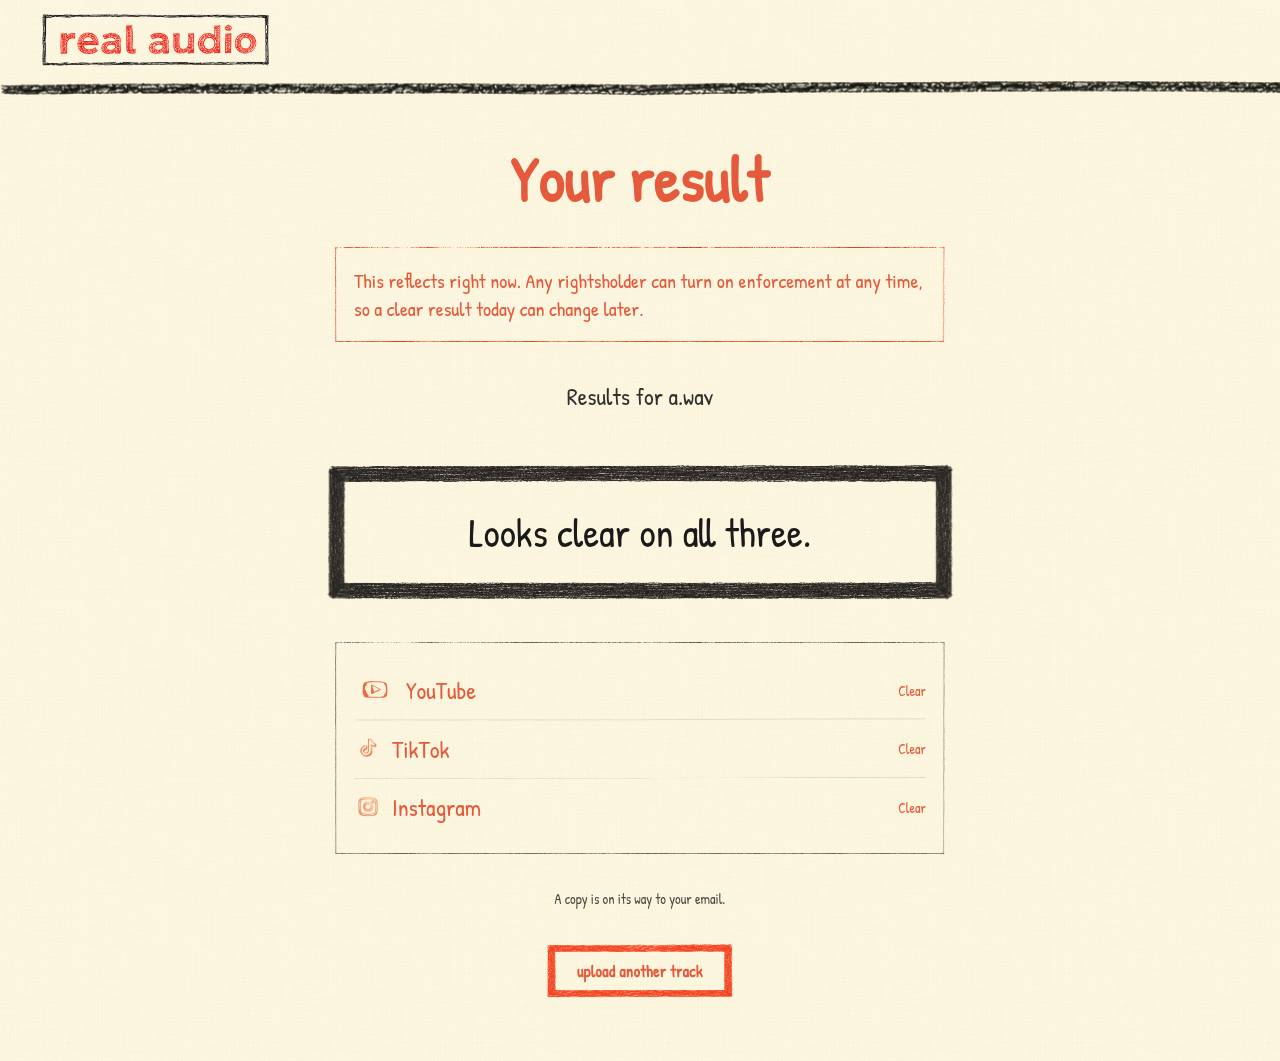
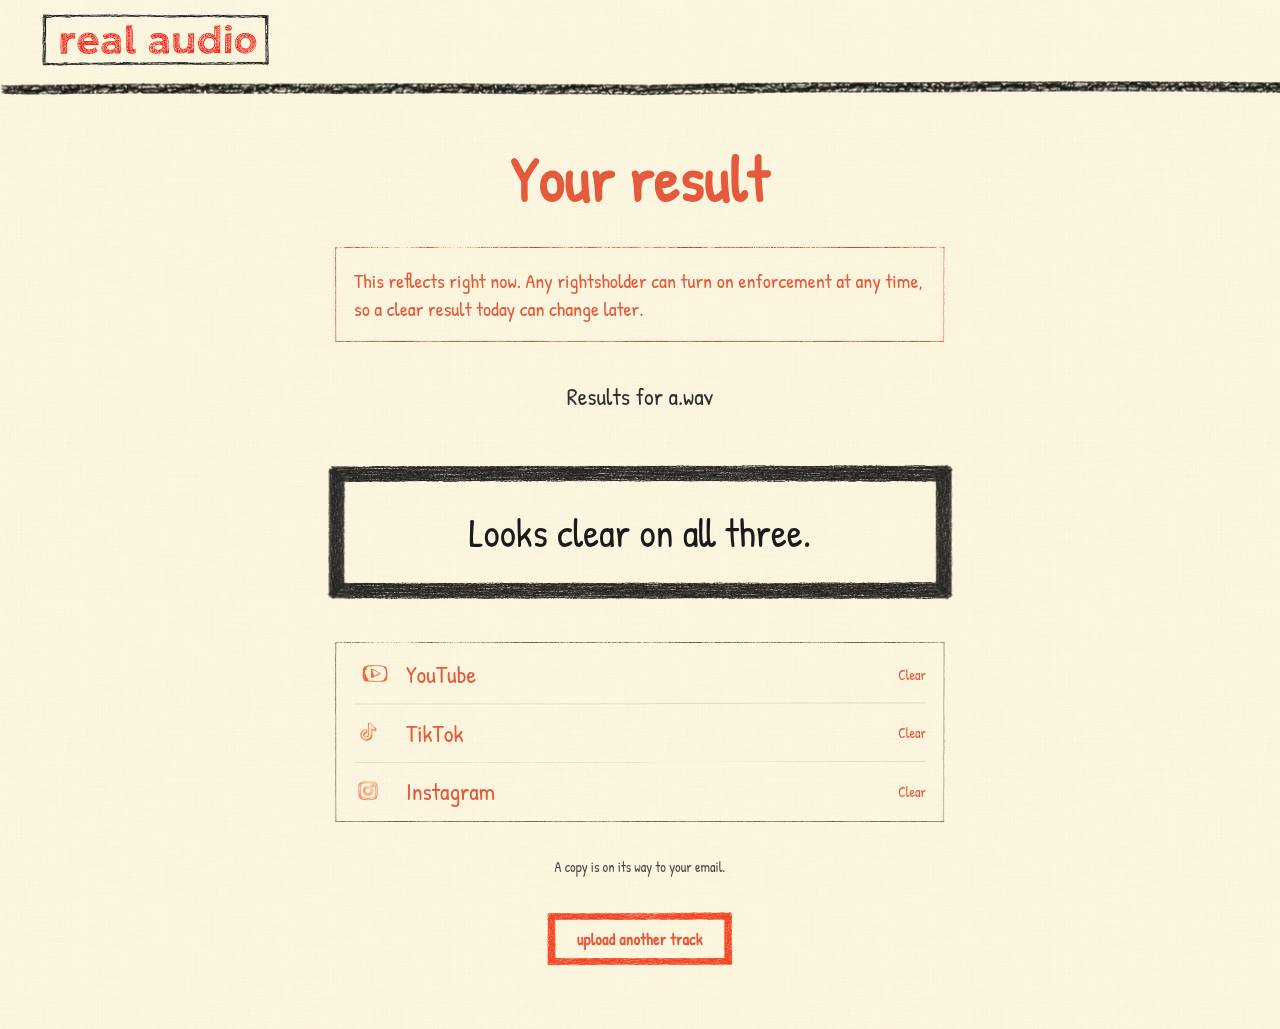
MS-002 fix (Reject10): summary width match; platform-name left align; tighten YT/IG outer gaps
Match #summary content width to warning/card text chunks; fixed 42px icon
column so YouTube/TikTok/Instagram names share a left edge; reduce platforms
box + first/last row padding above YT / below IG. Cache-bust ms002-r10; e2e
layout asserts + refreshed result screenshots.

diff --git a/clearance-check/public/styles.css b/clearance-check/public/styles.css
@@ -378,16 +378,37 @@ h1, h2, h3, p { margin: 0; }
 .actions { display: flex; justify-content: center; padding-top: 8px; }
 
 /* Result page */
+/* Reject10: summary text width matches warning/platform card content (border 18 + pad 16). */
+#summary.lead {
+  padding-left: calc(18px + var(--space-4));
+  padding-right: calc(18px + var(--space-4));
+}
 .platforms { list-style: none; margin: 0; padding: 0; }
 .platform { display: flex; flex-wrap: wrap; align-items: center; justify-content: space-between; gap: 2px 16px; padding: 12px 0; }
 .platform + .platform { border-top: 0; }
-.platform-label { display: inline-flex; align-items: center; gap: 10px; min-width: 0; }
+/* Reject10: less outer gap above YouTube / below Instagram */
+#platforms-box {
+  padding-top: var(--space-2);
+  padding-bottom: var(--space-2);
+}
+.platform:first-child { padding-top: 4px; }
+.platform:last-child { padding-bottom: 4px; }
+/* Reject10: fixed icon column so names share a left edge (YT ~42px at h=28) */
+.platform-label {
+  display: inline-grid;
+  grid-template-columns: 42px auto;
+  align-items: center;
+  column-gap: 10px;
+  min-width: 0;
+}
 .platform-icon {
   /* Reject9: fixed height, width auto — keep natural aspect (YT is wider than TT/IG) */
   height: 28px;
   width: auto;
+  max-width: 42px;
   flex-shrink: 0;
   display: block;
+  justify-self: start;
   /* Spencer: start black (true black, not CF grey inactive) */
   filter: brightness(0) saturate(100%);
 }

diff --git a/clearance-check/public/r/index.html b/clearance-check/public/r/index.html
@@ -9,7 +9,7 @@
   <link rel="preconnect" href="https://fonts.googleapis.com">
   <link rel="preconnect" href="https://fonts.gstatic.com" crossorigin>
   <link href="https://fonts.googleapis.com/css2?family=Patrick+Hand&family=Inter:wght@400;500;600;700&display=swap" rel="stylesheet">
-  <link rel="stylesheet" href="/styles.css?v=ms002-r9">
+  <link rel="stylesheet" href="/styles.css?v=ms002-r10">
   <meta name="robots" content="noindex">
 </head>
 <body>
@@ -52,6 +52,6 @@
       </div>
     </main>
   </div>
-  <script src="/result.js?v=ms002-r9" type="module"></script>
+  <script src="/result.js?v=ms002-r10" type="module"></script>
 </body>
 </html>

diff --git a/clearance-check/public/index.html b/clearance-check/public/index.html
@@ -9,7 +9,7 @@
   <link rel="preconnect" href="https://fonts.googleapis.com">
   <link rel="preconnect" href="https://fonts.gstatic.com" crossorigin>
   <link href="https://fonts.googleapis.com/css2?family=Patrick+Hand&family=Inter:wght@400;500;600;700&display=swap" rel="stylesheet">
-  <link rel="stylesheet" href="/styles.css?v=ms002-r9">
+  <link rel="stylesheet" href="/styles.css?v=ms002-r10">
 </head>
 <body>
   <div class="page surface-sketched">
@@ -60,6 +60,6 @@
       </div>
     </main>
   </div>
-  <script src="/app.js?v=ms002-r9" type="module"></script>
+  <script src="/app.js?v=ms002-r10" type="module"></script>
 </body>
 </html>
